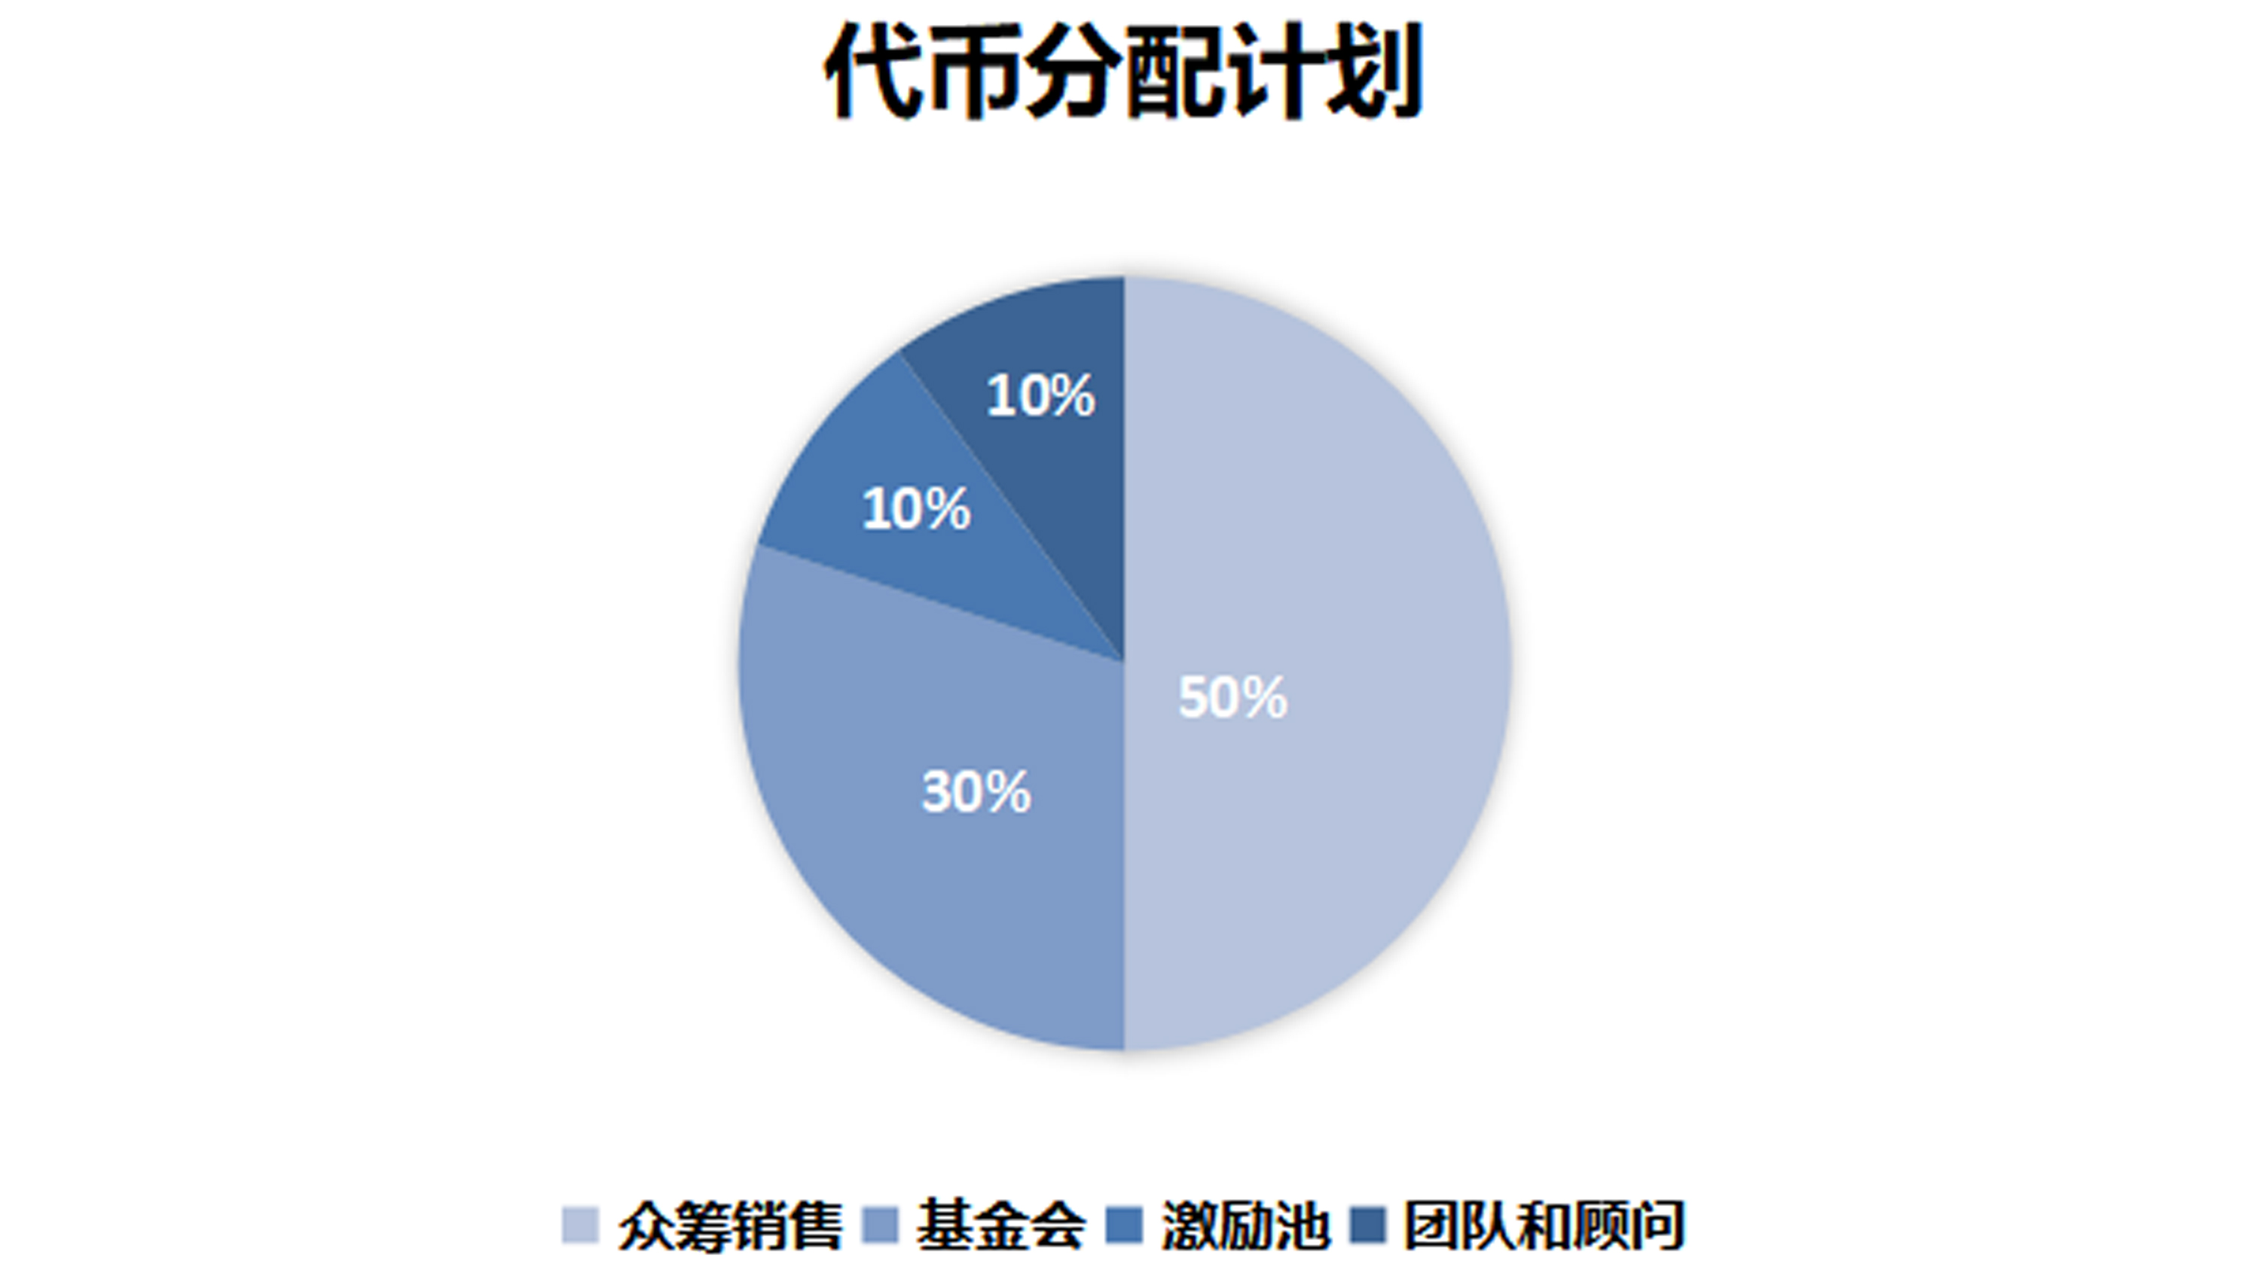
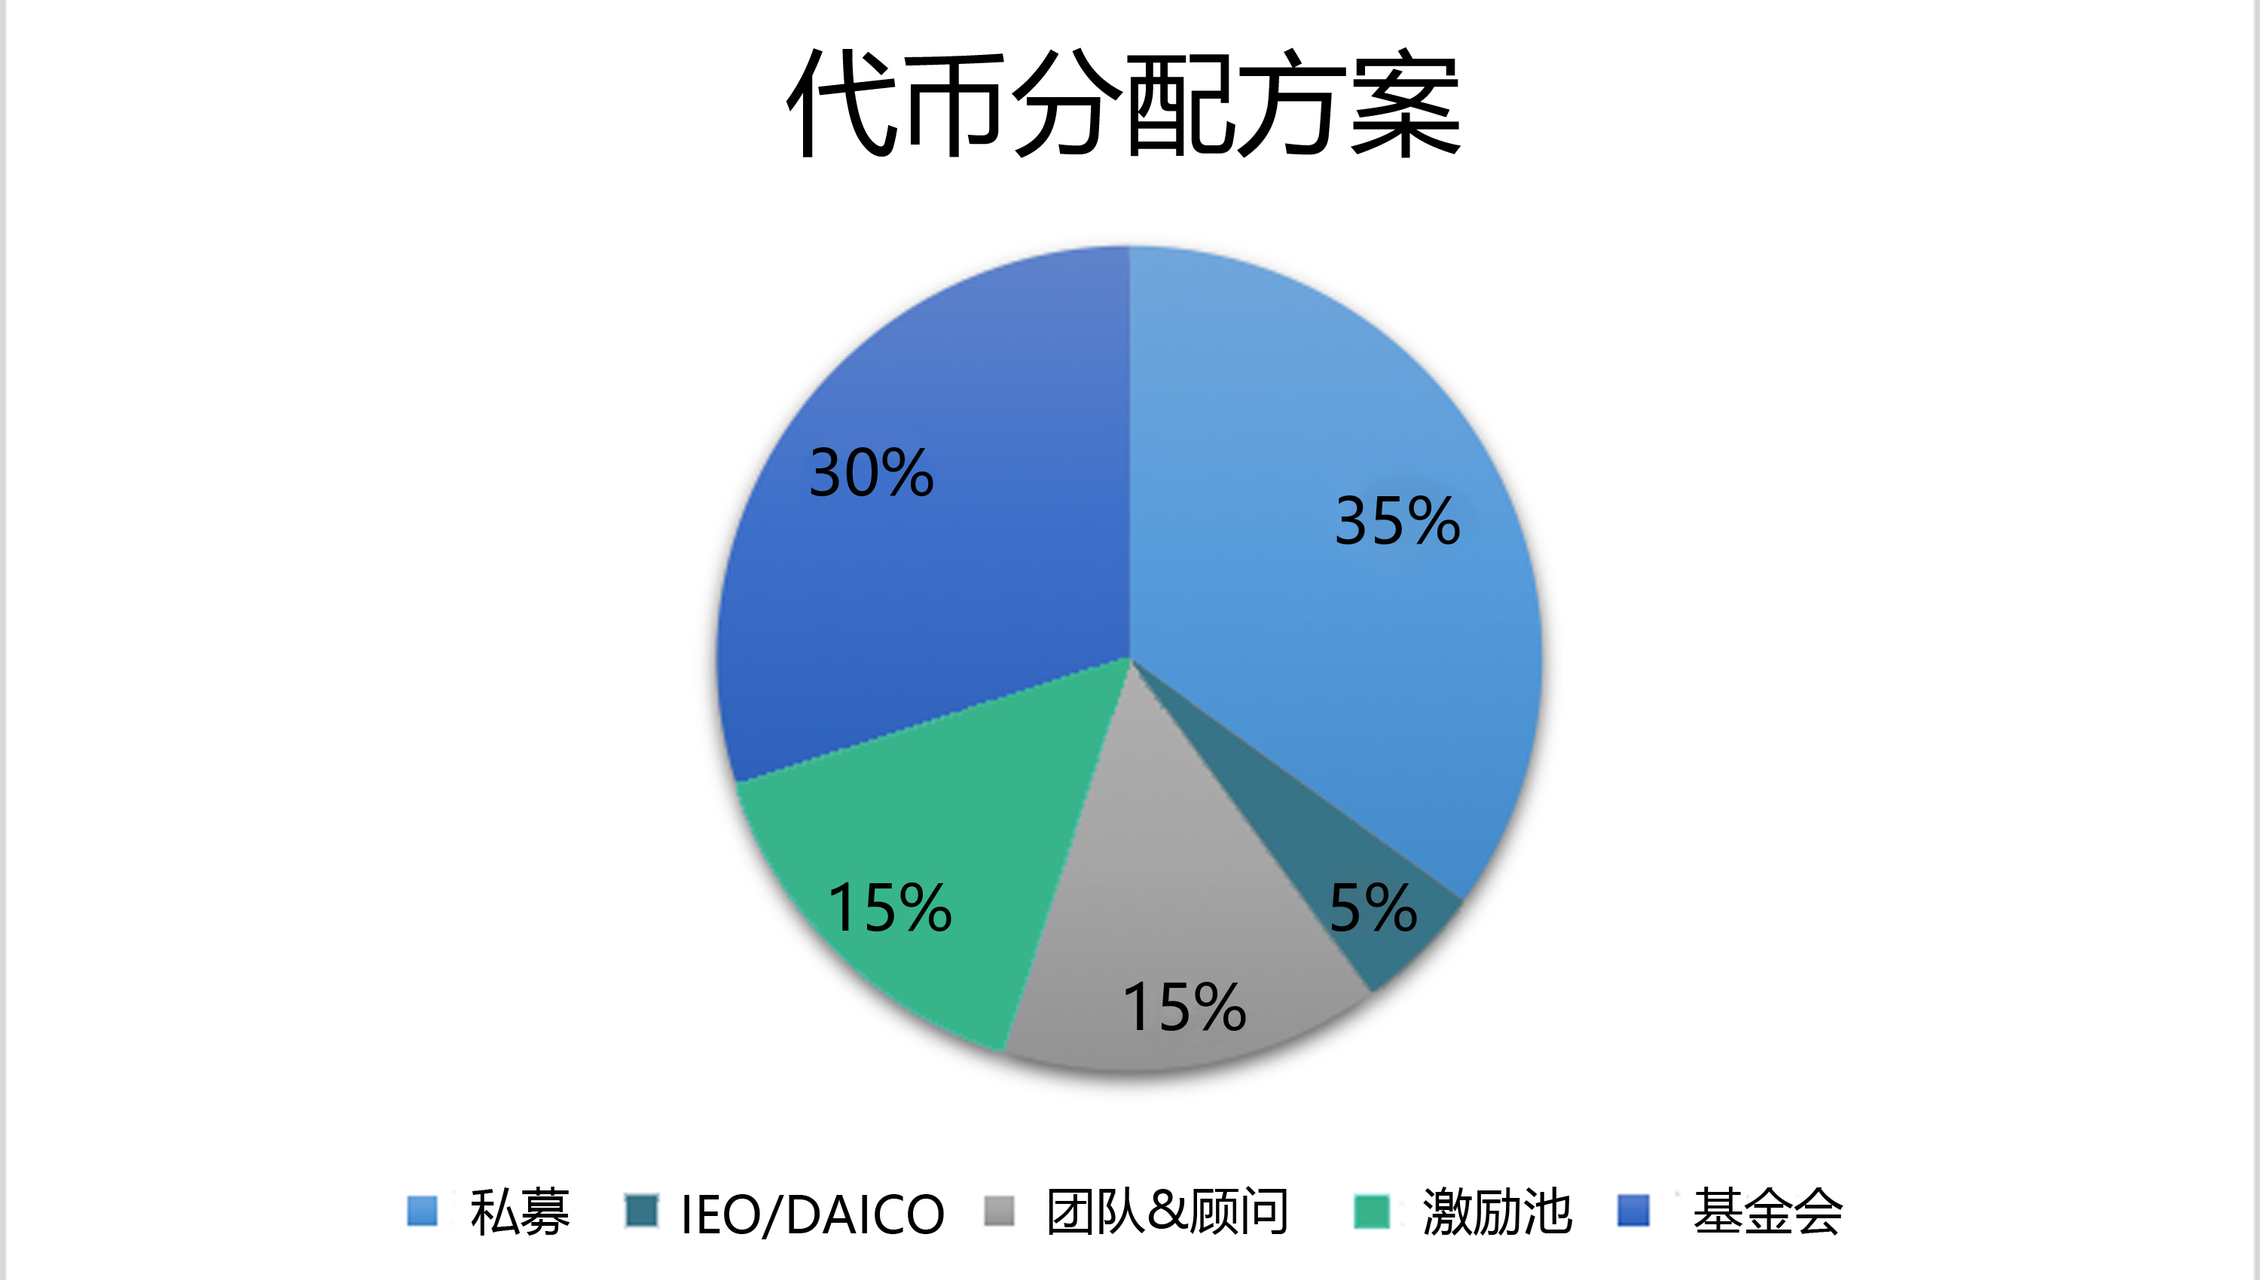
update sale plans

diff --git a/whitepaper/gebnetwork-whitepaper-zh.md b/whitepaper/gebnetwork-whitepaper-zh.md
@@ -35,17 +35,18 @@
         - [3.5.5. 取消订单](#355-取消订单)
         - [3.5.6. WETH合约](#356-weth合约)
     - [3.6. 非以太坊加密货币兼容](#36-非以太坊加密货币兼容)
-        - [3.6.1. 双向挂钩（2-way peg）技术（当前方案）](#361-双向挂钩2-way-peg技术当前方案)
-        - [3.6.2. 闪电原子交换（Lighting atomic swap）技术（演进方案）](#362-闪电原子交换lighting-atomic-swap技术演进方案)
+        - [3.6.1. 双向挂钩（2-way peg）技术【当前方案】](#361-双向挂钩2-way-peg技术当前方案)
+        - [3.6.2. 闪电原子交换（Lighting atomic swap）技术【演进方案】](#362-闪电原子交换lighting-atomic-swap技术演进方案)
 - [4. GEB协议代币](#4-geb协议代币)
     - [4.1. GEB代币经济模型](#41-geb代币经济模型)
     - [4.2. GEB代币用例](#42-geb代币用例)
     - [4.3. GEB代币增发](#43-geb代币增发)
     - [4.4. Aragon DAO治理](#44-aragon-dao治理)
     - [4.5. 首次代币发行](#45-首次代币发行)
-        - [4.5.1. 代币发行计划——DAICO](#451-代币发行计划daico)
-        - [4.5.2. 代币分配计划](#452-代币分配计划)
-        - [4.5.3. 资金取款](#453-资金取款)
+        - [4.5.1. 代币发行计划——IEO【备选1】](#451-代币发行计划ieo备选1)
+        - [4.5.2. 代币发行计划——DAICO【备选2】](#452-代币发行计划daico备选2)
+        - [4.5.3. 代币分配计划](#453-代币分配计划)
+        - [4.5.4. 资金取款](#454-资金取款)
     - [4.6. GEB投资基金](#46-geb投资基金)
 - [5. GEB协议生态](#5-geb协议生态)
     - [5.1. GEB Network整体架构](#51-geb-network整体架构)
@@ -487,14 +488,14 @@ mapping(bytes32 => Order) internal OrderList
 ### 3.6. 非以太坊加密货币兼容
 &emsp;&emsp;GEB协议在设计之初就考虑了对非以太坊数字货币的兼容。为了实现这一目标，我们需要依靠允许这些加密数字货币网络之间相互通信的技术和协议。我们很高兴地看到许多优秀的团队 — — 比如，Polkadot和Cosmos — — 正在着手解决这一问题。遗憾的是，这些项目现今仍处于紧张的开发阶段 — — 有的要么尚未公布具体的发布日期（例如Polkadot），要么仅仅适用于基于权益证明（PoS）机制的区块链（例如Cosmos）。因此，现有区块链间的跨链通信的实际解决方案依然有待探索。在综合比较了多种跨链技术方案以后，GEB团队选择了一条分两步实施的技术路线。<br />
 
-#### 3.6.1. 双向挂钩（2-way peg）技术（当前方案）
+#### 3.6.1. 双向挂钩（2-way peg）技术【当前方案】
 &emsp;&emsp;以下是关于双向挂钩的一般性描述：我们把以太坊上的比特币代理币称为E-BTC。当一个用户“存放”BTC时，这些BTC在比特币区块链上被锁定。这些BTC的交易证明被发送到一个以太坊合约中，该合约被称为PegContract。PegContract验证这笔交易，并发行E-BTC到用户的以太坊地址。比特币系统中的1BTC等价于以太坊系统中的1E-BTC。之后，当用户想把E-BTC换回到BTC时，只要燃烧掉E-BTC，再提供一个烧毁证明给比特币区块链。比特币区块链验证这些E-BTC已经烧毁后，解锁原始的BTC。<br />
 &emsp;&emsp;这种PegContract现在就能在以太坊上实现，并且能够无需信任地完成所有工作：它能够验证BTC已经被发送到某个地址并且锁定了；它能够发行E-BTC；它能够燃烧E-BTC并提供烧毁证明。BTC-Relay就是这样一种合约，BTC-Relay实现了比特币简化支付证明（SPV），从而能够验证一笔交易是否已经在比特币区块链上被确认（需要向Relayer支付验证手续费以激励Relayer持续向BTC-Relay合约提交比特币区块头）。因此在比特币系统中的任何交易，从支付到BTC的锁定，都可以被以太坊合约验证。同理我们可以实现用以太坊合约验证比特币现金（BCH）区块链上的交易。<br />
 &emsp;&emsp;双向挂钩存在的问题是，我们无法在比特币区块链上部署ETH-Relay或者任何锁定合约。我们可以等到RootStock发布以后，在ETH和RootStock之间建立一个双向挂钩，以实现比特币和以太坊之间的交互。另一个实际的解决方案是，将用户的BTC锁定在多重签名地址中，其中每个签名者必须在以太坊PegContract中存入ETH。当BTC被锁定时，PegContract将照常发行E-BTC。当E-BTC被发回PegContract时，它们将被烧毁并由PegContract生成证明。同时PegContract开始倒计时，为签名者提供足够的时间来验证烧毁证明并解锁BTC。如果任何签名者不签署多重签名，他存放在PegContract中的ETH会被转入用户的以太坊地址。为了使赎回过程更加顺利，签名者可以从每次存入/赎回过程中获得手续费奖励。具体原理如下图所示：<br />
 
 ![img](https://github.com/gebnetwork/DAICO/blob/master/whitepaper/images/cross-chain-vertical.jpg)
 
-#### 3.6.2. 闪电原子交换（Lighting atomic swap）技术（演进方案）
+#### 3.6.2. 闪电原子交换（Lighting atomic swap）技术【演进方案】
 &emsp;&emsp;为了确保跨链交易的安全性，双向挂钩技术的交易速度必须满足以下不等式：<br />
 
 &emsp;&emsp;&emsp;&emsp;&emsp;&emsp;&emsp;&emsp;&emsp;&emsp;&emsp;&emsp;&emsp;&emsp;&emsp;&emsp;&emsp;&emsp;&emsp;&emsp;![](https://latex.codecogs.com/gif.latex?%5Cfrac%7B1%7D%7Bv%7D%5Cgeq%20%5Cfrac%7B1%7D%7Bv1%7D&plus;%5Cfrac%7B1%7D%7Bv2%7D)
@@ -578,24 +579,28 @@ function verifyCombinatedParams() {
 
 ### 4.5. 首次代币发行
 
-#### 4.5.1. 代币发行计划——DAICO
+#### 4.5.1. 代币发行计划——IEO【备选1】
+&emsp;&emsp;在结束GEB Network的私募活动之后，选择直接在首发交易所进行首次代币发行。<br />
+
+#### 4.5.2. 代币发行计划——DAICO【备选2】
 &emsp;&emsp;2018年1月，Vitalik Buterin提出了一个革命性的概念——结合ICO和DAO（分布式自治系统）的DAICO （https://ethresear.ch/t/explanation-of-daicos/465） 在DAICO中参与者可以投票赞成或者反对固定的预算增加，如果团队没有成功实施该项目，参与者可以投票退回。<br />
 
 ![img](https://github.com/gebnetwork/DAICO/blob/master/whitepaper/images/daico.jpg)
 
 &emsp;&emsp;GEB Network将使用DAICO进行资金的众筹和使用管理，将规则100%透明的嵌入在代码中，直接由参与者和智能合约控制，不再有第三方。<br />
 
-#### 4.5.2. 代币分配计划
+#### 4.5.3. 代币分配计划
 &emsp;&emsp;团队、顾问、众筹销售、基金会和激励池的代币将由智能合约分配如下：<br />
 
 ![img](https://github.com/gebnetwork/DAICO/blob/master/whitepaper/images/token-distributed.jpg)
 
 - 团队和顾问：团队部分的GEB代币将通过智能合约冻结2年。顾问的代币不受锁定期约束，在代币销售结束之后将直接分发给该项目的顾问。
-- 众筹销售：众售分配的GEB代币将分为两部分：1）未参与锁定激励计划的部分将在众筹结束后解锁并分发到参与者的钱包中; 2）参与锁定激励计划的部分将被锁定在众售智能合约中，再根据既定规则分期解锁分发至参与者钱包中。
+- 私募：私募销售的GEB代币将分为两部分：1）未参与锁定计划的部分将在私募结束后分发到参与者的钱包中; 2）参与锁定计划的部分将在私募结束后被锁定在智能合约中，再根据既定规则分期解锁分发至参与者钱包中。
+- IEO/DAICO：该部分将在ieo/daico结束后分发到参与者的钱包中。
 - 基金会：该部分的GEB代币将由智能合约冻结1年。
 - 激励池：该部分的GEB代币将由智能合约冻结4年。
 
-#### 4.5.3. 资金取款
+#### 4.5.4. 资金取款
 &emsp;&emsp;众筹销售结束之后Fund contract转为TeamWithdraw模式，允许该项目的团队定期提取筹集资金的有限数量。所筹集的资金通过Fund contract可以使用两种方式给开发团队支付：<br />
 - 有限直接支付（第一次取款）
 
@@ -608,7 +613,7 @@ function verifyCombinatedParams() {
 &emsp;&emsp;我们相信采用DAICO的资金管理方案会提供给投资者前所未有的安全，透明性和控制性的水平，帮助项目良好、健康地发展。<br />
 
 ### 4.6. GEB投资基金
-&emsp;&emsp;GEB DAICO完成后，GEB基金会将从募集到的资金和基金会中的3亿个GEB Token中各拿出30%成立GEB投资基金，专门用于投资孵化GEB协议生态内的企业和DAO。投资的方向主要包括区块链底层技术，区块链协议与应用，GEB协议扩展等。GEB投资基金由GEB DAO委员会直接管理并配置专业的投研团队和投后管理团队。基金收益的20%～50%将被用于回购市场上流通的GEB Token并销毁（视GEB Token价格决定回购规模），剩余收益将用于持续滚动投资。<br />
+&emsp;&emsp;GEB Network的募资工作完成后，GEB基金会将从募集到的资金和基金会中的3亿个GEB Token中各拿出30%成立GEB投资基金，专门用于投资孵化GEB协议生态内的企业和DAO。投资的方向主要包括区块链底层技术，区块链协议与应用，GEB协议扩展等。GEB投资基金由GEB DAO委员会直接管理并配置专业的投研团队和投后管理团队。基金收益的20%～50%将被用于回购市场上流通的GEB Token并销毁（视GEB Token价格决定回购规模），剩余收益将用于持续滚动投资。<br />
 
 <br /><br />
 ## 5. GEB协议生态

diff --git a/whitepaper/gebnetwork-whitepaper-en.md b/whitepaper/gebnetwork-whitepaper-en.md
@@ -43,9 +43,10 @@
     - [4.3. Additional Issue of GEB Tokens](#43-additional-issue-of-geb-tokens)
     - [4.4. Aragon DAO Governance](#44-aragon-dao-governance)
     - [4.5. Initial Coin Offering](#45-initial-coin-offering)
-        - [4.5.1. Coin Offering Plan - DAICO](#451-coin-offering-plan---daico)
-        - [4.5.2. Token Distribution Plan](#452-token-distribution-plan)
-        - [4.5.3. Withdrawals](#453-withdrawals)
+        - [4.5.1. Coin Offering Plan - IEO (Option 1)](#451-coin-offering-plan---ieo-option-1)
+        - [4.5.2. Coin Offering Plan - DAICO (Option 2)](#452-coin-offering-plan---daico-option-2)
+        - [4.5.3. Token Distribution Plan](#453-token-distribution-plan)
+        - [4.5.4. Withdrawals](#454-withdrawals)
     - [4.6. GEB Investment Fund](#46-geb-investment-fund)
 - [5. GEB Protocol Ecology](#5-geb-protocol-ecology)
     - [5.1. The Overall Architecture of GEB Network](#51-the-overall-architecture-of-geb-network)
@@ -613,24 +614,28 @@ function verifyCombinatedParams() {
 
 ### 4.5. Initial Coin Offering
 
-#### 4.5.1. Coin Offering Plan - DAICO
+#### 4.5.1. Coin Offering Plan - DAICO (Option 1)
+<p>After private sale of GEB Token, GEB Network will make Initial-Coin-Offering in the first exchange to publicly list GEB token.</p>
+
+#### 4.5.2. Coin Offering Plan - DAICO (Option 2)
 <p>In January 2018, Vitalik Buterin proposed a revolutionary concept - DAICO (combined ICO with DAO (Distributed Autonomous Organization)) (https://ethresear.ch/t/explanation-of-daicos/465). Participants can vote for or against a fixed budget increase in DAICO. If the team did not successfully implement the project, participants can vote to cancel the project.</p>
 
 ![img](https://github.com/gebnetwork/DAICO/blob/master/whitepaper/images/daico.jpg)
 
 <p>GEB Network will use DAICO for the management of fund crowdfunding and usage, and embed the 100% transparent rules in the code, which will be directly controlled by participants and smart contracts, rather than third parties.</p>
 
-#### 4.5.2. Token Distribution Plan
+#### 4.5.3. Token Distribution Plan
 <p>The tokens for teams, consultants, crowdfunding sales, foundations, and incentive pool will be distributed by smart contracts as follows:</p>
 
 ![img](https://github.com/gebnetwork/DAICO/blob/master/whitepaper/images/token-distributed-en.jpg)
 
 - Team and Consultants: GEB Tokens for the team will be frozen for 2 years through the smart contract. And the tokens for consultants will not be subject to the lock-up period and will be distributed directly to consultants of the project after the token sales are completed.
-- Crowdfunding Sales: GEB Tokens distributed through crowdfunding will be divided into two parts: 1) The part that does not participate in the lock-up incentive plan will be unlocked after the crowdfunding and distributed to the participant's wallet; 2) The part that participates in the lock-up incentive plan will be locked in the smart contracts for crowdfunding, which will be unlocked and distributed to participants' wallets by stages according to established rules.
+- Private Sale: GEB Tokens distributed through Private sale will be divided into two parts: 1) The part that does not participate in the lock-up plan will be unlocked after the Private sale and distributed to the participant's wallet; 2) The part that participates in the lock-up plan will be locked in the smart contracts, which will be unlocked and distributed to participants' wallets by stages according to established rules.
+- IEO/DAICO: The portion of the GEB Tokens will be distributed directly to participants' wallets.
 - Foundations: The portion of the GEB Tokens will be frozen for one year by the smart contract.
-- Incentive Pool: This portion of the GEB Token will be frozen for 4 years by the smart contract.
+- Incentive Pool: This portion of the GEB Tokens will be frozen for 4 years by the smart contract.
 
-#### 4.5.3. Withdrawals
+#### 4.5.4. Withdrawals
 <p>After the end of crowdfunding sales, the Fund contract was converted to the Team Withdraw mode, which allows project team to regularly withdraw a limited amount of funds raised. Payment of funds raised through the Fund contract can be paid to the development team by the following two approaches:</p>
 
 - Limited direct payment (first withdrawal)
@@ -646,7 +651,7 @@ function verifyCombinatedParams() {
 <p>We believe that DAICO's fund management scheme will provide investors with an unprecedented safety, transparency and control to promote sound and healthy development of the project.</p>
 
 ### 4.6. GEB Investment Fund
-<p>After GEB DAICO is completed, the GEB Foundation will establish a GEB investment fund specifically for investing and incubating companies and DAOs within the GEB Ecosystem, from 30% of the funds raised and the 300 million GEB Tokens of the foundation, respectively. The direction of investment includes blockchain underlying technologies, blockchain protocols and applications, and GEB protocol extensions. The GEB investment fund is directly managed by the GEB DAO Committee, accompanied with a professional investment research team and post-investment management team. 20% to 50% of the fund income will be used to repurchase and destroy the GEB Token circulating on the market (the size of the repurchasing will be determined according to the GEB Token price), and the residual income will be used for continuous rolling investment.</p>
+<p>After GEB Network's fundraising work is completed, the GEB Foundation will establish a GEB investment fund specifically for investing and incubating companies and DAOs within the GEB Ecosystem, from 30% of the funds raised and the 300 million GEB Tokens of the foundation, respectively. The direction of investment includes blockchain underlying technologies, blockchain protocols and applications, and GEB protocol extensions. The GEB investment fund is directly managed by the GEB DAO Committee, accompanied with a professional investment research team and post-investment management team. 20% to 50% of the fund income will be used to repurchase and destroy the GEB Token circulating on the market (the size of the repurchasing will be determined according to the GEB Token price), and the residual income will be used for continuous rolling investment.</p>
 
 <br /><br />
 ## 5. GEB Protocol Ecology
